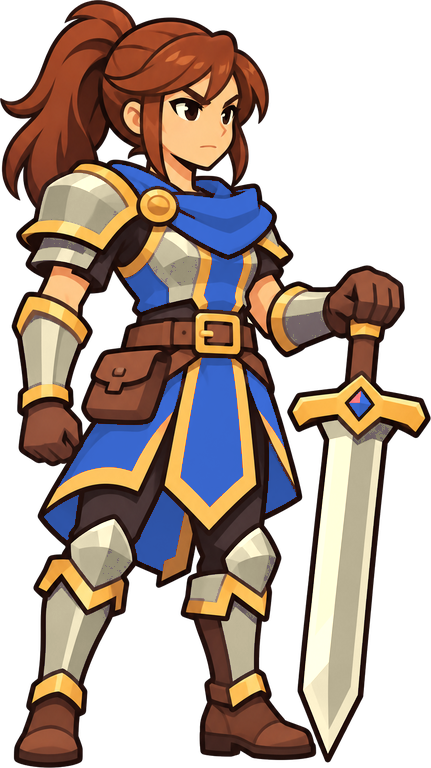
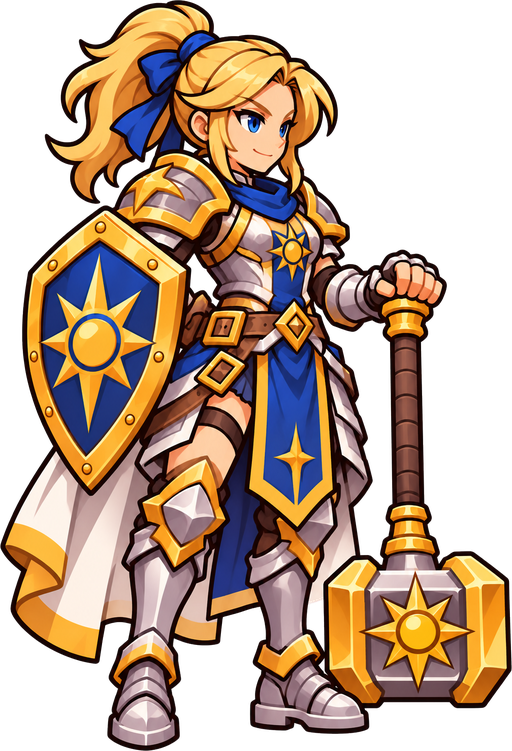
Cendrelame 0.8.21 – Images et apparences du Paladin

diff --git a/index.html b/index.html
@@ -4,26 +4,26 @@
 <meta name="viewport" content="width=device-width,initial-scale=1,viewport-fit=cover">
 <title>Cendrelame</title>
 <link rel="stylesheet" href="https://fonts.googleapis.com/css2?family=Alegreya+Sans:wght@400;500;700&family=IM+Fell+English+SC&display=swap">
-<link rel="stylesheet" href="css/00-initial.css?v=0.8.20">
-<link rel="stylesheet" href="css/01-base.css?v=0.8.20">
-<link rel="stylesheet" href="css/02-menus-et-personnages.css?v=0.8.20">
-<link rel="stylesheet" href="css/03-elements.css?v=0.8.20">
-<link rel="stylesheet" href="css/04-interface.css?v=0.8.20">
-<link rel="stylesheet" href="css/05-sprites-et-combat.css?v=0.8.20">
-<link rel="stylesheet" href="css/06-ajustements-0.4.css?v=0.8.20">
-<link rel="stylesheet" href="css/07-classement-quetes-hdv.css?v=0.8.20">
-<link rel="stylesheet" href="css/08-saison.css?v=0.8.20">
-<link rel="stylesheet" href="css/09-compagnon.css?v=0.8.20">
-<link rel="stylesheet" href="css/10-telephone.css?v=0.8.20">
-<link rel="stylesheet" href="css/11-defis-et-aide.css?v=0.8.20">
-<link rel="stylesheet" href="css/12-marche-et-stockage.css?v=0.8.20">
-<link rel="stylesheet" href="css/13-images-vectorielles.css?v=0.8.20">
-<link rel="stylesheet" href="css/14-plein-ecran.css?v=0.8.20">
-<link rel="stylesheet" href="css/15-boutons-graves.css?v=0.8.20">
-<link rel="stylesheet" href="css/16-accueil.css?v=0.8.20">
-<link rel="stylesheet" href="css/17-cosmetiques.css?v=0.8.20">
-<link rel="stylesheet" href="css/18-paladin.css?v=0.8.20">
-<link rel="stylesheet" href="css/19-failles.css?v=0.8.20">
+<link rel="stylesheet" href="css/00-initial.css?v=0.8.21">
+<link rel="stylesheet" href="css/01-base.css?v=0.8.21">
+<link rel="stylesheet" href="css/02-menus-et-personnages.css?v=0.8.21">
+<link rel="stylesheet" href="css/03-elements.css?v=0.8.21">
+<link rel="stylesheet" href="css/04-interface.css?v=0.8.21">
+<link rel="stylesheet" href="css/05-sprites-et-combat.css?v=0.8.21">
+<link rel="stylesheet" href="css/06-ajustements-0.4.css?v=0.8.21">
+<link rel="stylesheet" href="css/07-classement-quetes-hdv.css?v=0.8.21">
+<link rel="stylesheet" href="css/08-saison.css?v=0.8.21">
+<link rel="stylesheet" href="css/09-compagnon.css?v=0.8.21">
+<link rel="stylesheet" href="css/10-telephone.css?v=0.8.21">
+<link rel="stylesheet" href="css/11-defis-et-aide.css?v=0.8.21">
+<link rel="stylesheet" href="css/12-marche-et-stockage.css?v=0.8.21">
+<link rel="stylesheet" href="css/13-images-vectorielles.css?v=0.8.21">
+<link rel="stylesheet" href="css/14-plein-ecran.css?v=0.8.21">
+<link rel="stylesheet" href="css/15-boutons-graves.css?v=0.8.21">
+<link rel="stylesheet" href="css/16-accueil.css?v=0.8.21">
+<link rel="stylesheet" href="css/17-cosmetiques.css?v=0.8.21">
+<link rel="stylesheet" href="css/18-paladin.css?v=0.8.21">
+<link rel="stylesheet" href="css/19-failles.css?v=0.8.21">
 </head>
 <body>
 <div class="byline"><span id="ver"></span></div>
@@ -47,80 +47,80 @@
 <div id="updbar" class="updbar" role="alert" hidden><b>Une nouvelle version de Cendrelame est disponible.</b><span>Rafraîchissez la page pour l’installer (votre progression est sauvegardée).</span><button class="btn sm" data-act="updReload">Rafraîchir maintenant</button></div>
 <div id="toasts" aria-live="polite"></div>
 <div id="tip" hidden></div>
-<script src="js/version.js?v=0.8.20"></script>
-<script src="js/core/utilitaires.js?v=0.8.20"></script>
-<script src="js/data/images-presentes.js?v=0.8.20"></script>
-<script src="js/core/images.js?v=0.8.20"></script>
-<script src="js/data/objets-et-potions.js?v=0.8.20"></script>
-<script src="js/data/classes-et-competences.js?v=0.8.20"></script>
-<script src="js/data/icones-des-sorts.js?v=0.8.20"></script>
-<script src="js/core/etat-et-migrations.js?v=0.8.20"></script>
-<script src="js/systems/objets.js?v=0.8.20"></script>
-<script src="js/systems/heros.js?v=0.8.20"></script>
-<script src="js/systems/combat-aventure.js?v=0.8.20"></script>
-<script src="js/systems/collecte.js?v=0.8.20"></script>
-<script src="js/ui/rendu.js?v=0.8.20"></script>
-<script src="js/online/compte-et-amis.js?v=0.8.20"></script>
-<script src="js/online/duels.js?v=0.8.20"></script>
-<script src="js/online/raids-a-deux.js?v=0.8.20"></script>
-<script src="js/online/chat.js?v=0.8.20"></script>
-<script src="js/ui/ecrans-connexion-creation.js?v=0.8.20"></script>
-<script src="js/ui/carte-aventure.js?v=0.8.20"></script>
-<script src="js/ui/trophees.js?v=0.8.20"></script>
-<script src="js/ui/carte-de-joueur.js?v=0.8.20"></script>
-<script src="js/ui/communaute.js?v=0.8.20"></script>
-<script src="js/systems/coffre-des-reliques.js?v=0.8.20"></script>
-<script src="js/online/messagerie.js?v=0.8.20"></script>
-<script src="js/ui/sprites-et-selection.js?v=0.8.20"></script>
-<script src="js/ui/scene-de-combat.js?v=0.8.20"></script>
-<script src="js/systems/forge.js?v=0.8.20"></script>
-<script src="js/online/nouvelle-saison.js?v=0.8.20"></script>
-<script src="js/admin/administration.js?v=0.8.20"></script>
-<script src="js/systems/defis-solo.js?v=0.8.20"></script>
-<script src="js/ui/page-personnage.js?v=0.8.20"></script>
-<script src="js/ui/nouveautes-chroniques.js?v=0.8.20"></script>
-<script src="js/online/classement.js?v=0.8.20"></script>
-<script src="js/systems/quetes.js?v=0.8.20"></script>
-<script src="js/systems/potions-en-combat.js?v=0.8.20"></script>
-<script src="js/ui/marchand-et-personnage.js?v=0.8.20"></script>
-<script src="js/ui/inventaire.js?v=0.8.20"></script>
-<script src="js/systems/forge-creation.js?v=0.8.20"></script>
-<script src="js/systems/coffre-du-compte.js?v=0.8.20"></script>
-<script src="js/ui/collecte-et-marchand.js?v=0.8.20"></script>
-<script src="js/ui/aide-base.js?v=0.8.20"></script>
-<script src="js/ui/nouveautes.js?v=0.8.20"></script>
-<script src="js/data/notes-de-version.js?v=0.8.20"></script>
-<script src="js/ui/nouveautes-suite.js?v=0.8.20"></script>
-<script src="js/core/sauvegarde.js?v=0.8.20"></script>
-<script src="js/admin/bestiaire.js?v=0.8.20"></script>
-<script src="js/ui/infobulles.js?v=0.8.20"></script>
-<script src="js/ui/actions.js?v=0.8.20"></script>
-<script src="js/ui/reglages-du-combat.js?v=0.8.20"></script>
-<script src="js/online/hotel-des-ventes.js?v=0.8.20"></script>
-<script src="js/ui/popup-mise-a-jour.js?v=0.8.20"></script>
-<script src="js/systems/moteur-de-combat.js?v=0.8.20"></script>
-<script src="js/ui/page-competences.js?v=0.8.20"></script>
-<script src="js/systems/saison-et-cosmetiques.js?v=0.8.20"></script>
-<script src="js/systems/potions-ascension-fusion.js?v=0.8.20"></script>
-<script src="js/systems/coffres-et-admin.js?v=0.8.20"></script>
-<script src="js/systems/compagnon-dessins.js?v=0.8.20"></script>
-<script src="js/systems/compagnon.js?v=0.8.20"></script>
-<script src="js/ui/telephone.js?v=0.8.20"></script>
-<script src="js/systems/raretes-et-defis.js?v=0.8.20"></script>
-<script src="js/ui/aide.js?v=0.8.20"></script>
-<script src="js/ui/forge-equipement-porte.js?v=0.8.20"></script>
-<script src="js/systems/marche-et-stockage.js?v=0.8.20"></script>
-<script src="js/systems/pouvoirs-legendaires.js?v=0.8.20"></script>
-<script src="js/systems/affixes-par-emplacement.js?v=0.8.20"></script>
-<script src="js/systems/butin.js?v=0.8.20"></script>
-<script src="js/systems/sac-de-base.js?v=0.8.20"></script>
-<script src="js/systems/apparences.js?v=0.8.20"></script>
-<script src="js/systems/paladin.js?v=0.8.20"></script>
-<script src="js/systems/cosmetiques-prodiges.js?v=0.8.20"></script>
-<script src="js/systems/gains-hors-ligne.js?v=0.8.20"></script>
-<script src="js/ui/accueil.js?v=0.8.20"></script>
-<script src="js/ui/amis-deplacable.js?v=0.8.20"></script>
-<script src="js/ui/plein-ecran.js?v=0.8.20"></script>
-<script src="js/systems/failles.js?v=0.8.20"></script>
-<script src="js/core/demarrage.js?v=0.8.20"></script>
+<script src="js/version.js?v=0.8.21"></script>
+<script src="js/core/utilitaires.js?v=0.8.21"></script>
+<script src="js/data/images-presentes.js?v=0.8.21"></script>
+<script src="js/core/images.js?v=0.8.21"></script>
+<script src="js/data/objets-et-potions.js?v=0.8.21"></script>
+<script src="js/data/classes-et-competences.js?v=0.8.21"></script>
+<script src="js/data/icones-des-sorts.js?v=0.8.21"></script>
+<script src="js/core/etat-et-migrations.js?v=0.8.21"></script>
+<script src="js/systems/objets.js?v=0.8.21"></script>
+<script src="js/systems/heros.js?v=0.8.21"></script>
+<script src="js/systems/combat-aventure.js?v=0.8.21"></script>
+<script src="js/systems/collecte.js?v=0.8.21"></script>
+<script src="js/ui/rendu.js?v=0.8.21"></script>
+<script src="js/online/compte-et-amis.js?v=0.8.21"></script>
+<script src="js/online/duels.js?v=0.8.21"></script>
+<script src="js/online/raids-a-deux.js?v=0.8.21"></script>
+<script src="js/online/chat.js?v=0.8.21"></script>
+<script src="js/ui/ecrans-connexion-creation.js?v=0.8.21"></script>
+<script src="js/ui/carte-aventure.js?v=0.8.21"></script>
+<script src="js/ui/trophees.js?v=0.8.21"></script>
+<script src="js/ui/carte-de-joueur.js?v=0.8.21"></script>
+<script src="js/ui/communaute.js?v=0.8.21"></script>
+<script src="js/systems/coffre-des-reliques.js?v=0.8.21"></script>
+<script src="js/online/messagerie.js?v=0.8.21"></script>
+<script src="js/ui/sprites-et-selection.js?v=0.8.21"></script>
+<script src="js/ui/scene-de-combat.js?v=0.8.21"></script>
+<script src="js/systems/forge.js?v=0.8.21"></script>
+<script src="js/online/nouvelle-saison.js?v=0.8.21"></script>
+<script src="js/admin/administration.js?v=0.8.21"></script>
+<script src="js/systems/defis-solo.js?v=0.8.21"></script>
+<script src="js/ui/page-personnage.js?v=0.8.21"></script>
+<script src="js/ui/nouveautes-chroniques.js?v=0.8.21"></script>
+<script src="js/online/classement.js?v=0.8.21"></script>
+<script src="js/systems/quetes.js?v=0.8.21"></script>
+<script src="js/systems/potions-en-combat.js?v=0.8.21"></script>
+<script src="js/ui/marchand-et-personnage.js?v=0.8.21"></script>
+<script src="js/ui/inventaire.js?v=0.8.21"></script>
+<script src="js/systems/forge-creation.js?v=0.8.21"></script>
+<script src="js/systems/coffre-du-compte.js?v=0.8.21"></script>
+<script src="js/ui/collecte-et-marchand.js?v=0.8.21"></script>
+<script src="js/ui/aide-base.js?v=0.8.21"></script>
+<script src="js/ui/nouveautes.js?v=0.8.21"></script>
+<script src="js/data/notes-de-version.js?v=0.8.21"></script>
+<script src="js/ui/nouveautes-suite.js?v=0.8.21"></script>
+<script src="js/core/sauvegarde.js?v=0.8.21"></script>
+<script src="js/admin/bestiaire.js?v=0.8.21"></script>
+<script src="js/ui/infobulles.js?v=0.8.21"></script>
+<script src="js/ui/actions.js?v=0.8.21"></script>
+<script src="js/ui/reglages-du-combat.js?v=0.8.21"></script>
+<script src="js/online/hotel-des-ventes.js?v=0.8.21"></script>
+<script src="js/ui/popup-mise-a-jour.js?v=0.8.21"></script>
+<script src="js/systems/moteur-de-combat.js?v=0.8.21"></script>
+<script src="js/ui/page-competences.js?v=0.8.21"></script>
+<script src="js/systems/saison-et-cosmetiques.js?v=0.8.21"></script>
+<script src="js/systems/potions-ascension-fusion.js?v=0.8.21"></script>
+<script src="js/systems/coffres-et-admin.js?v=0.8.21"></script>
+<script src="js/systems/compagnon-dessins.js?v=0.8.21"></script>
+<script src="js/systems/compagnon.js?v=0.8.21"></script>
+<script src="js/ui/telephone.js?v=0.8.21"></script>
+<script src="js/systems/raretes-et-defis.js?v=0.8.21"></script>
+<script src="js/ui/aide.js?v=0.8.21"></script>
+<script src="js/ui/forge-equipement-porte.js?v=0.8.21"></script>
+<script src="js/systems/marche-et-stockage.js?v=0.8.21"></script>
+<script src="js/systems/pouvoirs-legendaires.js?v=0.8.21"></script>
+<script src="js/systems/affixes-par-emplacement.js?v=0.8.21"></script>
+<script src="js/systems/butin.js?v=0.8.21"></script>
+<script src="js/systems/sac-de-base.js?v=0.8.21"></script>
+<script src="js/systems/apparences.js?v=0.8.21"></script>
+<script src="js/systems/paladin.js?v=0.8.21"></script>
+<script src="js/systems/cosmetiques-prodiges.js?v=0.8.21"></script>
+<script src="js/systems/gains-hors-ligne.js?v=0.8.21"></script>
+<script src="js/ui/accueil.js?v=0.8.21"></script>
+<script src="js/ui/amis-deplacable.js?v=0.8.21"></script>
+<script src="js/ui/plein-ecran.js?v=0.8.21"></script>
+<script src="js/systems/failles.js?v=0.8.21"></script>
+<script src="js/core/demarrage.js?v=0.8.21"></script>
 </body></html>

diff --git a/js/data/notes-de-version.js b/js/data/notes-de-version.js
@@ -1,5 +1,6 @@
 /* Cendrelame · data/notes-de-version.js */
 const PATCH=[
+ {"v": "0.8.21", "t": "Images du Paladin", "sec": [["Amélioré", ["Le Paladin a ses vraies images : apparence 1 (homme) et apparence 2 (femme), en armure argent et or avec bouclier au soleil et marteau. Avant : un Guerrier recoloré en bleu."]], ["Nouveau", ["2 apparences de Paladin dans Communauté → Personnalisation → Apparence du héros : Gardien de l’Aube (armure blanche et or, grand bouclier lumineux) et Héraut du Jugement (armure sombre et rouge, marteau entouré d’éclairs dorés)."]]]},
  {"v": "0.8.20", "t": "Failles temporelles et objets d’Ensemble", "sec": [["Nouveau", ["Failles temporelles : nouveau mode dans Aventure → Failles, ouvert au niveau 50. Choisissez un rang, entrez dans la faille et enchaînez 3 combats puis le boss. Vos PV ne remontent pas entre les combats et vous ne pouvez boire que 5 potions pour toute la faille.", "10 rangs : refermer la faille d’un rang (battre son boss) ouvre le suivant. Les ennemis sont comparés au mode Mythique : rang 1 → PV −20 % et dégâts −32 % ; rang 5 → PV +28 % et dégâts +1 % ; rang 10 → PV +88 % et dégâts +41 %. Le boss a 20 % de PV en plus. Le décor et les ennemis changent selon le rang.", "Butin des failles : beaucoup d’or (rang 1 : 2 500 par combat et 10 000 sur le boss ; rang 10 : 7 000 et 32 500), des ressources de la zone, des Pierres de renforcement, des Runes de pierre et parfois une Pierre épique ou un Prisme divin sur le boss. Équipement niveau 85 : 45 % par combat, 2 objets garantis sur le boss.", "Si vous tombez, vous gardez le butin des combats déjà gagnés.", "Objets d’Ensemble (nouvelle rareté verte), uniquement dans les failles : 2 ensembles par classe, un par spécialisation, de 6 pièces (arme, heaume, armure, jambières, bottes, amulette). Bonus à 2, 4 et 6 pièces portées, actifs avec la bonne spécialisation. Exemple, Verdict solaire (Paladin, Tempête divine) : 2 pièces → +12 % de Force ; 4 → +8 % de dégâts sacrés ; 6 → Zèle maximum +2 et Verdict +40 %.", "Chance d’Ensemble : boss 15 % au rang 1 → 37,5 % au rang 10 ; combats 3 % → 7,5 %. 70 % de chances que ce soit l’ensemble de votre spécialisation.", "Ensembles : Fureur de l’Ancien Roi et Bastion d’Airain (Guerrier), Cendres de l’Éternel et Orage captif (Sorcier), Égide de l’Aube et Verdict solaire (Paladin)."]]]},
  {"v": "0.8.19", "t": "Nouvelle classe : le Paladin", "sec": [["Nouveau", ["Paladin : chevalier sacré qui utilise la Force. Il porte marteaux, grands heaumes, harnois, cuissards et solerets. Statistiques de départ : 310 PV, 13 Force, 11 Défense, 8,5 Vitesse (un peu plus solide que le Guerrier, un peu moins de dégâts).", "Nouvel élément Sacré pour ses sorts. Compétences de base : Jugement, Bouclier béni (bouclier + soin sur la durée), Consécration (zone) et Aura du croisé (+10 % de Force pendant 15 tours).", "Spécialisation Rempart Sacré : boucliers, soins et provocation. Ressource Bénédiction : +1 par coup reçu (5 au maximum) ; chaque point réduit de 2 % les dégâts subis et soigne 1 % des PV max au début du tour. Exemple : à 5 Bénédictions, −10 % de dégâts subis et 5 % de PV rendus chaque tour. Ultimes : Bouclier divin, Lumière céleste, Marteau du jugement.", "Spécialisation Tempête divine : dégâts sacrés. Ressource Zèle : +1 à chaque sort sacré (5 au maximum), +3 % de dégâts sacrés par point. Verdict et Jugement dernier consomment tout le Zèle. Exemple : Verdict à 5 Zèle → 80 % + 5 × 25 % = 205 % de la Force. Ultimes : Jugement dernier, Ailes de la vengeance, Tempête divine.", "La Potion de force sert aussi au Paladin. L’Hôtel des ventes a un filtre Paladin. Nouveau dossier d’apparences : assets/img/skins/paladin/."]]]},
  {"v": "0.8.18", "t": "Cosmétiques Prodiges", "sec": [["Nouveau", ["Collection Prodiges : 19 nouveaux cosmétiques. 6 auras plus détaillées (Ailes du phénix, Vortex du néant, Cercle arcanique, Prismes en orbite, Souffle sylvestre, Auréole dorée), 5 effets de carte (Étoiles filantes, Orage, Aurore boréale, Pluie d’or, Runes flottantes), 3 cadres de portrait, 1 ornement, 2 traînées et 2 arrière-plans.", "Coffre des Prodiges : contient 1 cosmétique Prodiges (Rare 50 %, Épique 38 %, Légendaire 12 %), un cosmétique pas encore obtenu en priorité. En vente chez le Marchand (Cosmétiques) pour 60 000 or + 1 Rune ancienne. Clic droit dans le sac pour l’ouvrir.", "Le Coffre des Prodiges peut aussi tomber en Défi après une victoire : 3 % au palier 0, puis +0,5 % par palier. Exemples : palier 4 → 5 % ; palier 14 et plus → 10 %.", "10 nouvelles apparences du héros : Berserker, Défenseure et Saison 1 pour le Guerrier ; Évocatrice, Évocateur, Pyromancienne, Pyromancien et 3 apparences Saison 1 pour le Sorcier."]], ["Amélioré", ["Personnalisation : tous les cosmétiques sont rangés par catégorie. Avant : une seule liste mélangée. Après : Base, Saison 1, Duel, Prodiges (et Base, Spécialisations, Saison 1 pour les apparences).", "Décors des zones de combat plus nets sur toute la hauteur : images refaites en plus grande taille et cadrées sur le milieu du paysage. Avant : seul le bas était net, le haut flouté. Après : toute l’image est nette.", "Fenêtre des amis déplaçable sur PC : glissez le titre « Amis » pour la placer où vous voulez ; elle garde sa place. Double-clic sur le titre : retour à sa place d’origine.", "Écran d’accueil : le héros est un peu plus petit (environ 10 %) pour laisser respirer le décor."]]]},

diff --git a/js/systems/apparences.js b/js/systems/apparences.js
@@ -9,7 +9,7 @@ const SKIN_COND={};
 const SKIN_HOW={}; /* texte affiché quand une apparence est verrouillée, même clé que SKIN_COND */
 const skinOk=id=>!SKIN_COND[id]||!!SKIN_COND[id]();
 /* noms affichés (avec accents) ; sinon le nom vient du fichier */
-const SKIN_NAMES={berserker:'Berserker',defenseur:'Défenseure',evocatrice:'Évocatrice',evocateur:'Évocateur',pyromancienne:'Pyromancienne',pyromancien:'Pyromancien',saison_1:'Saison 1',saison_1_b:'Saison 1 · variante 2',saison_1_c:'Saison 1 · variante 3'};
+const SKIN_NAMES={berserker:'Berserker',defenseur:'Défenseure',evocatrice:'Évocatrice',evocateur:'Évocateur',pyromancienne:'Pyromancienne',pyromancien:'Pyromancien',saison_1:'Saison 1',saison_1_b:'Saison 1 · variante 2',saison_1_c:'Saison 1 · variante 3',gardien_aube:'Gardien de l’Aube',heraut_jugement:'Héraut du Jugement'};
 const skinName=f=>{ if(SKIN_NAMES[f]) return SKIN_NAMES[f]; const t=f.replace(/[_-]+/g,' ').trim(); return t.charAt(0).toUpperCase()+t.slice(1) };
 (function skinLoad(){
   const L=(typeof IMG_PRESENTES!=='undefined'?IMG_PRESENTES:[]);

diff --git a/js/data/images-presentes.js b/js/data/images-presentes.js
@@ -84,6 +84,8 @@ const IMG_PRESENTES=[
   "skins/guerrier/berserker.png",
   "skins/guerrier/defenseur.png",
   "skins/guerrier/saison_1.png",
+  "skins/paladin/gardien_aube.png",
+  "skins/paladin/heraut_jugement.png",
   "skins/sorcier/evocateur.png",
   "skins/sorcier/evocatrice.png",
   "skins/sorcier/pyromancien.png",

diff --git a/js/version.js b/js/version.js
@@ -1,3 +1,3 @@
 /* Cendrelame · numéro de version (lu aussi par la détection de nouvelle version) */
-const VERSION='0.8.20';
-const BUILD='20261106220000';
+const VERSION='0.8.21';
+const BUILD='20261107090000';
